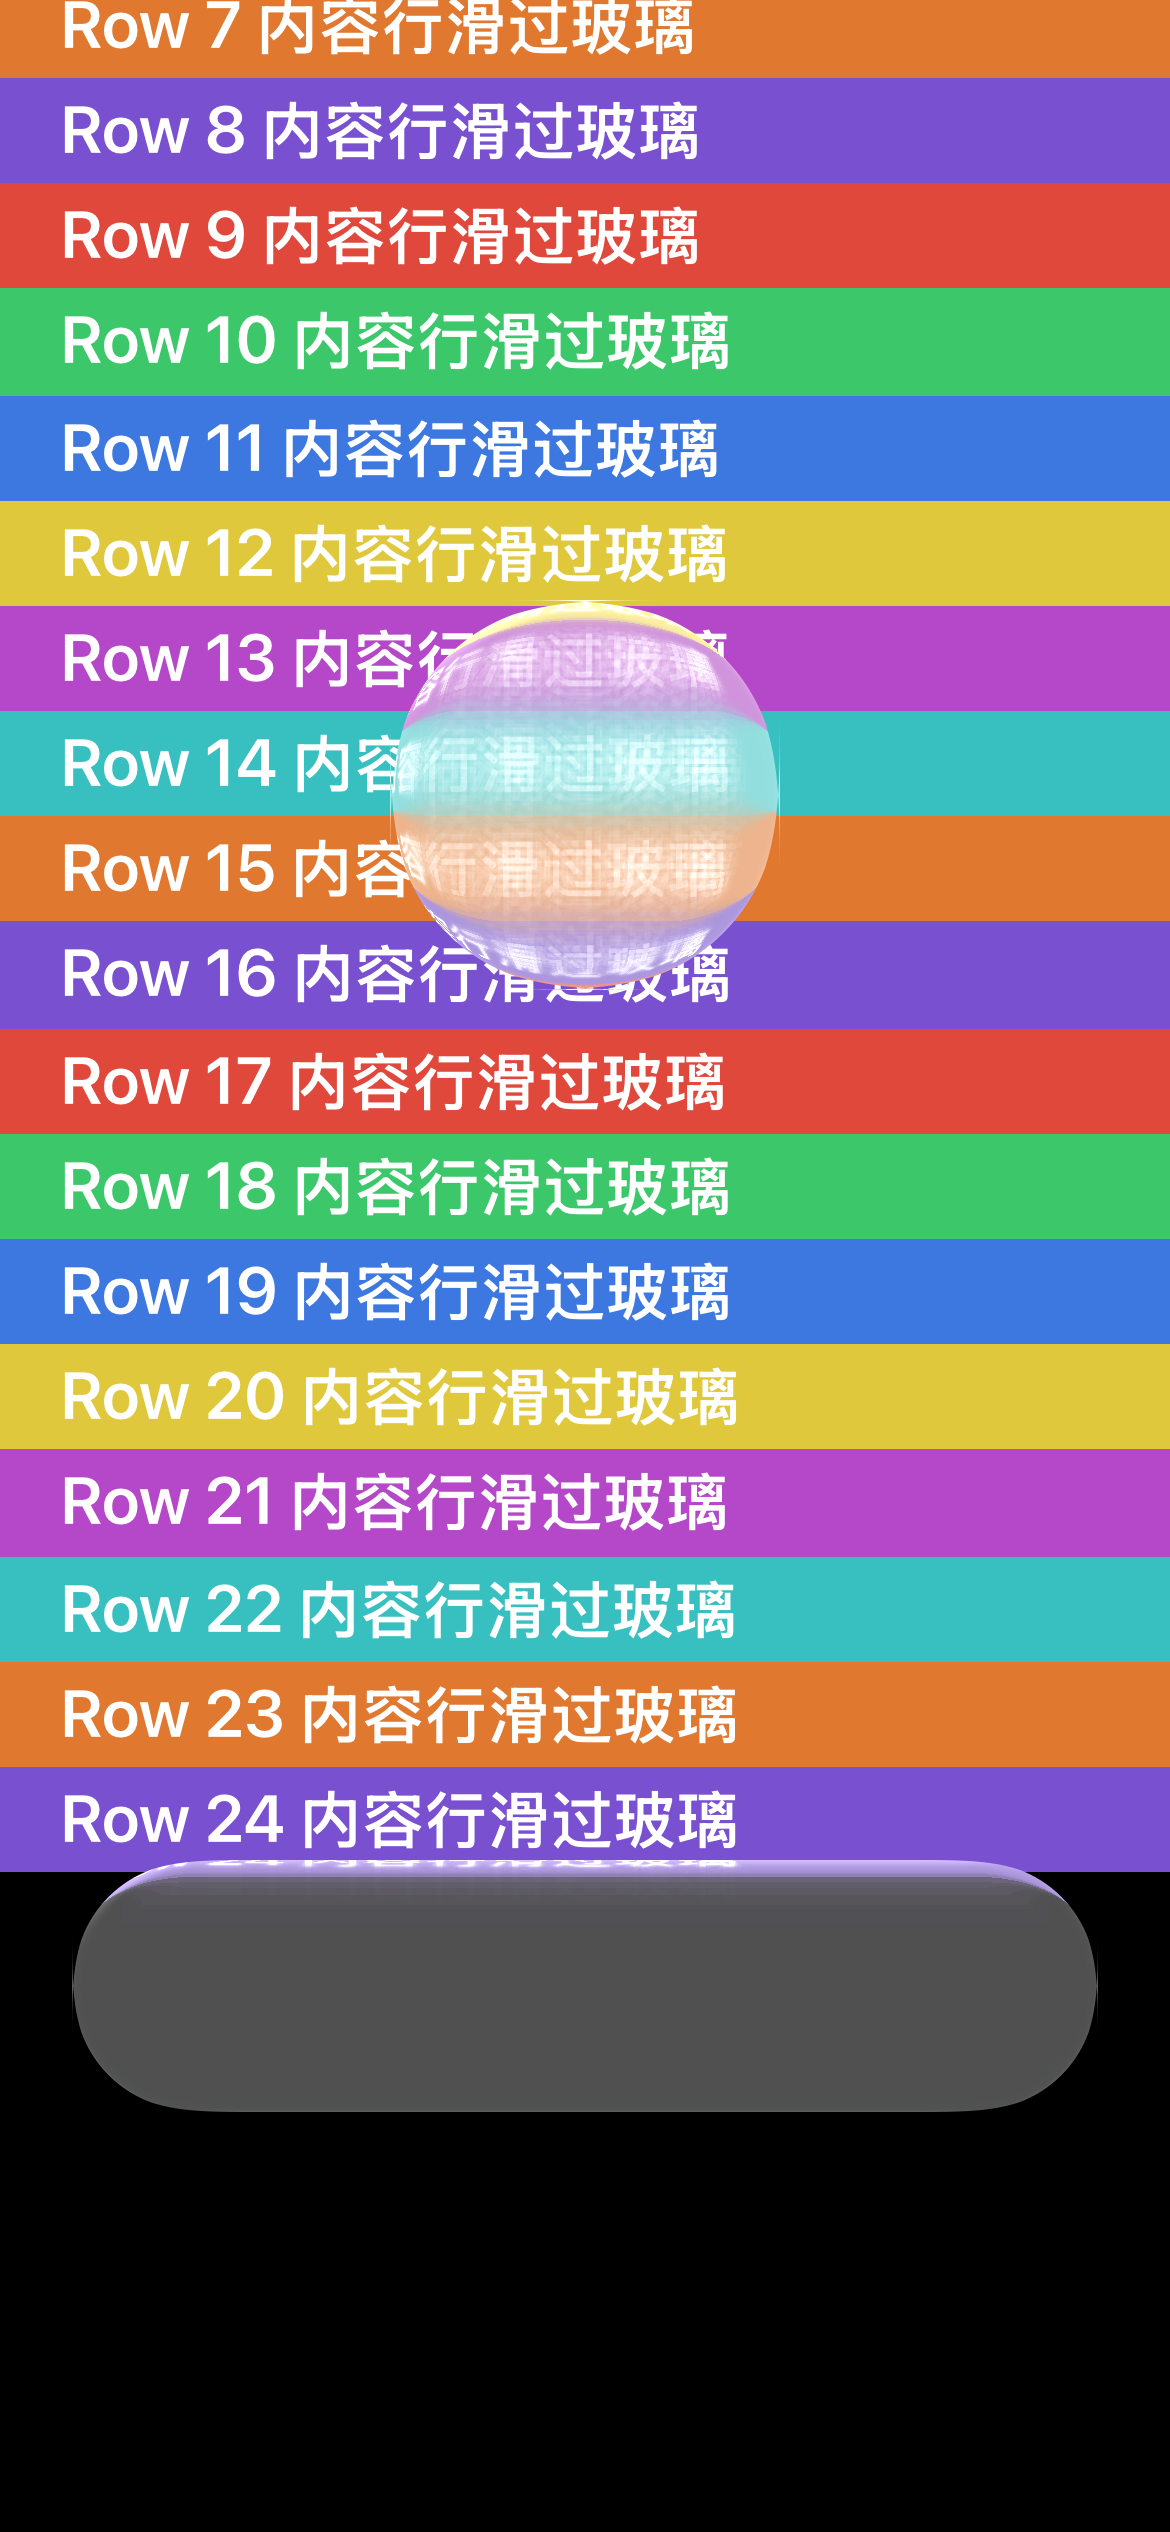
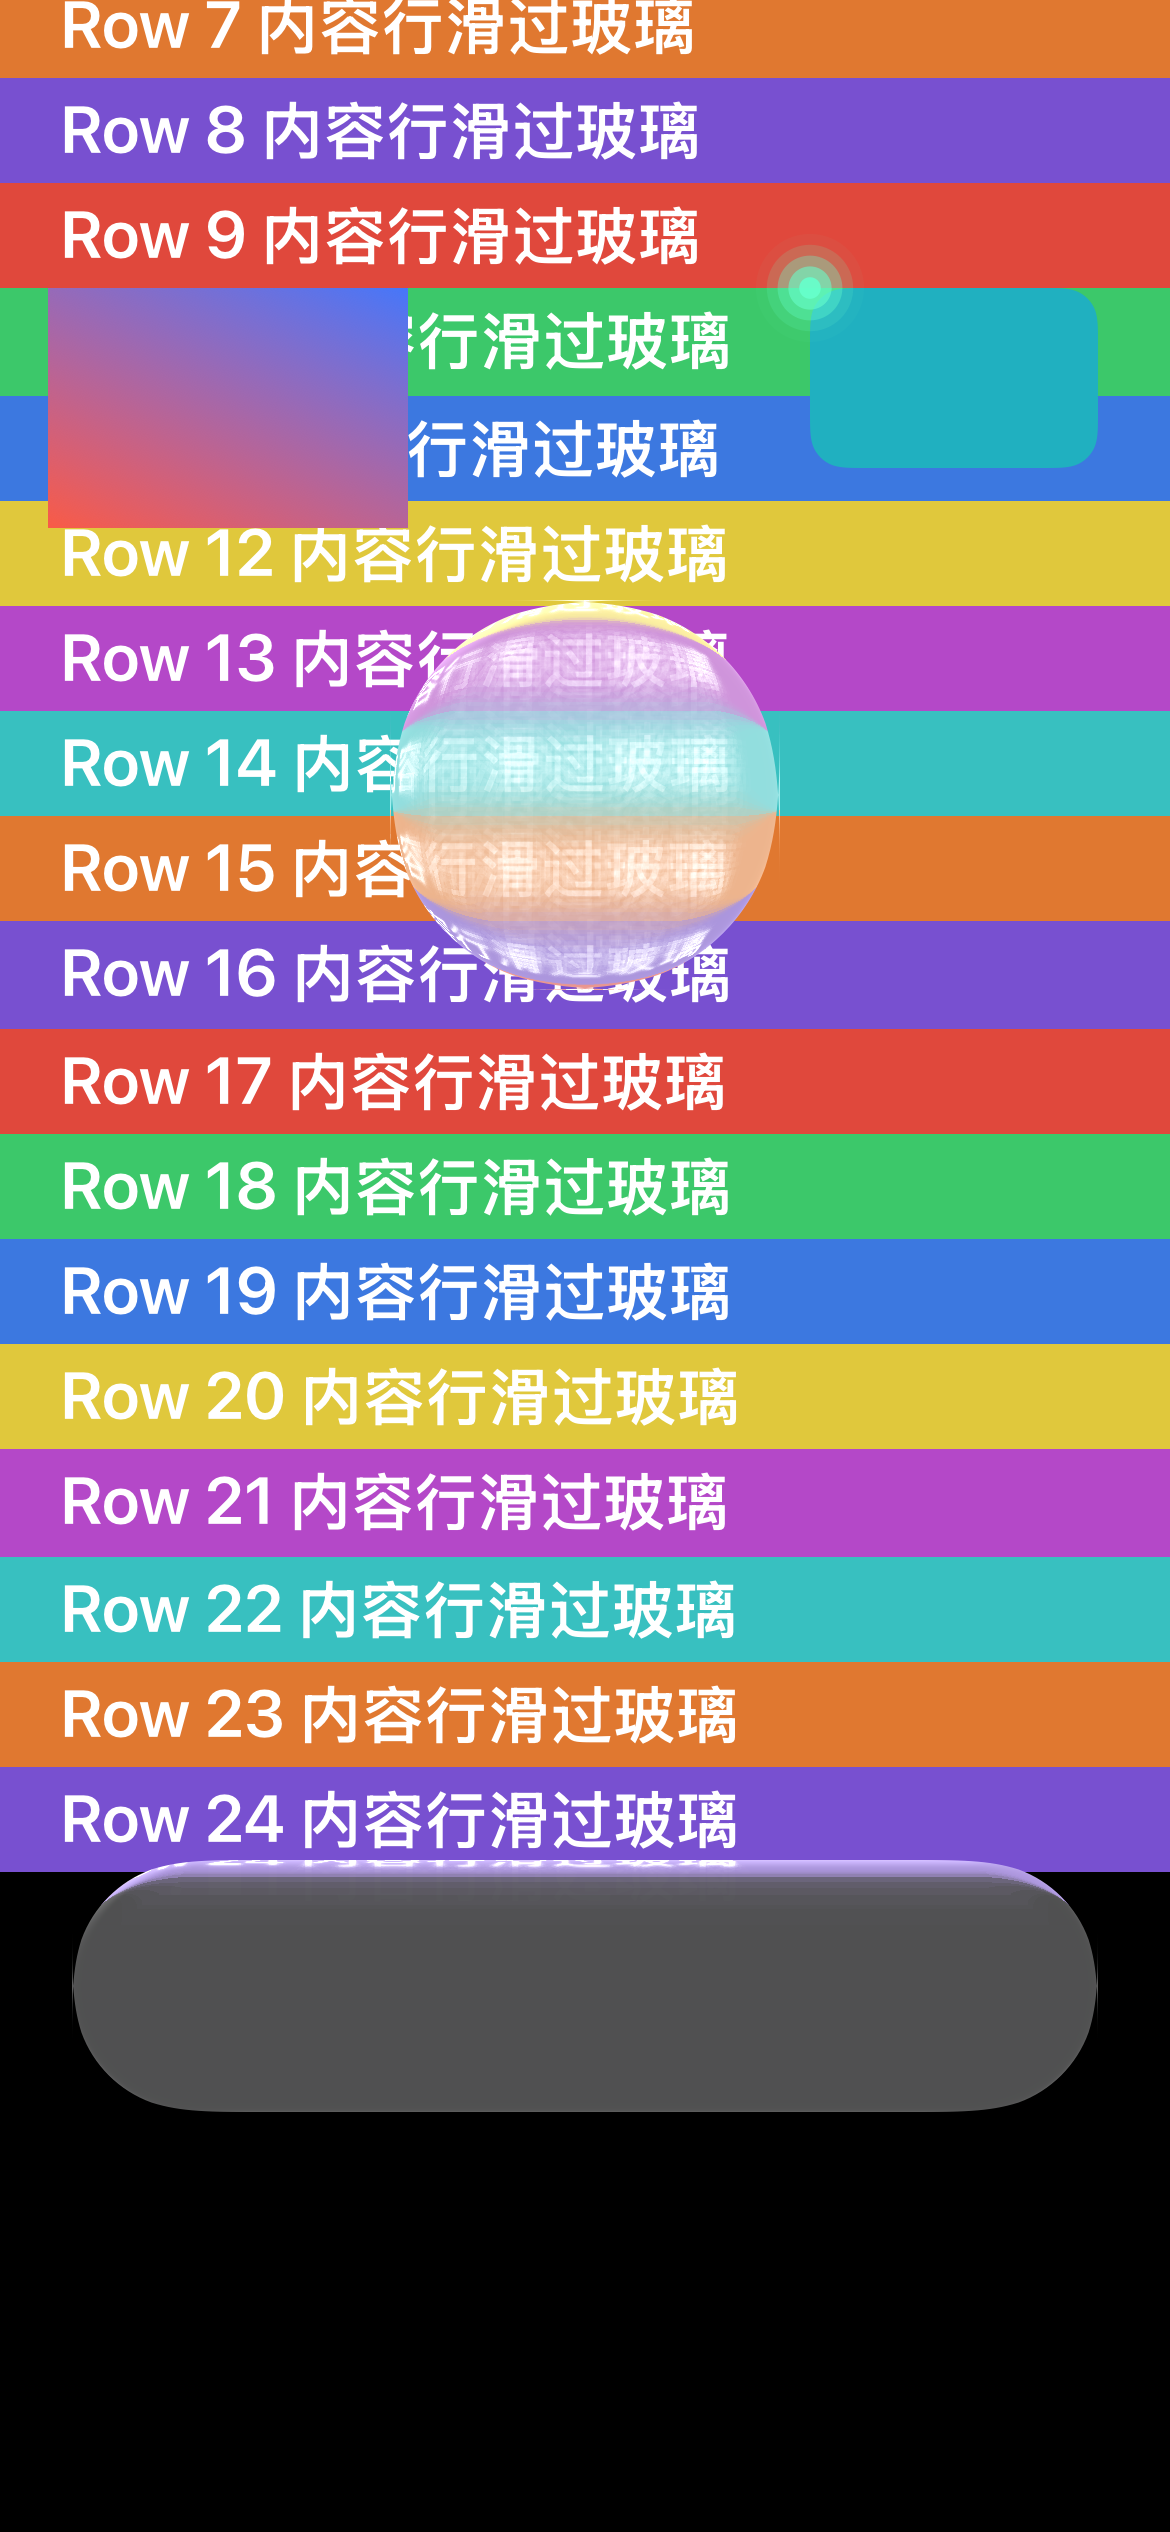
test(glass): 夹具加 gradient/glow/mask 三块——真机验证 B4 内核单源渲染（+ 证据截图）

Changed region(s): [[0.0308, 0.0936, 0.3692, 0.2184], [0.6462, 0.0936, 0.9538, 0.1872]]

diff --git a/hosts/ios/ProteusHost/dev/glass-scene.swift b/hosts/ios/ProteusHost/dev/glass-scene.swift
@@ -99,6 +99,24 @@ final class GlassScene: NSObject {
                       "width": 130, "height": 130, "borderRadius": 65,
                       "glass": ["blur": 16, "tint": "#ffffff26", "radius": 65, "border": true,
                                 "saturation": 1.0, "level": "L2"]])
+        id += 1
+        // ★B4 前景材质验证（决策 #834）：gradient / glow / mask 各一块（固定位，验内核单源渲染）
+        // ① 渐变砖（45° 线性——验 CSS 端点式；固定左上）
+        nodes.append(["id": id, "parentId": 0, "position": "fixed", "left": 16, "top": 96,
+                      "width": 120, "height": 80, "borderRadius": 8,
+                      "fillGradient": ["kind": "linear", "angle": 45.0,
+                                       "stops": [["offset": 0.0, "color": "#ff5a3c"],
+                                                 ["offset": 1.0, "color": "#3c78ff"]]]])
+        id += 1
+        // ② 发光块（glow——验分层曲线；固定右上）
+        nodes.append(["id": id, "parentId": 0, "position": "fixed", "left": 270, "top": 96,
+                      "width": 96, "height": 60, "borderRadius": 12, "backgroundColor": "#20b0c0",
+                      "glow": ["color": "#66ffcc", "radius": 18.0, "alpha": 0.9]])
+        id += 1
+        // ③ 软边遮罩块（mask——验揭示色标单源；固定中部偏下）
+        nodes.append(["id": id, "parentId": 0, "position": "fixed", "left": 200, "top": 380,
+                      "width": 150, "height": 90, "backgroundColor": "#c83c78",
+                      "mask": ["kind": "linear", "angle": 90.0, "softness": 0.5, "progress": 0.5]])
         return ["viewport": ["width": 390, "height": 844], "nodes": nodes]
     }
 
